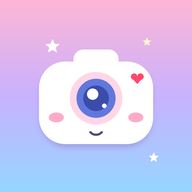
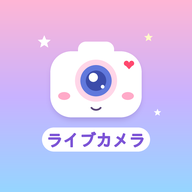
ライブカメラ一覧 v14: アイコンに「ライブカメラ」の文字
Claude-Session: https://claude.ai/code/session_01HruRYGx8dCqeC8TZRHkxHD

Changed region(s): [[0.1875, 0.1875, 0.8438, 0.8125], [0.75, 0.1562, 0.8125, 0.25], [0.7812, 0.7812, 0.8438, 0.8438]]

diff --git a/livecam/index.html b/livecam/index.html
@@ -69,7 +69,7 @@ dialog select,dialog input{background:var(--bg)}
 </head>
 <body>
 <header>
-  <div class="top"><div><h1>ライブカメラ一覧</h1><div id="ver" class="hint" style="margin-top:0">バージョン <b>v13</b>・<span id="total"></span></div></div><button id="add">＋ 追加</button></div>
+  <div class="top"><div><h1>ライブカメラ一覧</h1><div id="ver" class="hint" style="margin-top:0">バージョン <b>v14</b>・<span id="total"></span></div></div><button id="add">＋ 追加</button></div>
   <div class="row2">
     <select id="pref" aria-label="県を選ぶ"></select>
     <input id="q" type="search" placeholder="地名で探す" aria-label="地名で探す">

diff --git a/livecam/index.src.html b/livecam/index.src.html
@@ -69,7 +69,7 @@ dialog select,dialog input{background:var(--bg)}
 </head>
 <body>
 <header>
-  <div class="top"><div><h1>ライブカメラ一覧</h1><div id="ver" class="hint" style="margin-top:0">バージョン <b>v13</b>・<span id="total"></span></div></div><button id="add">＋ 追加</button></div>
+  <div class="top"><div><h1>ライブカメラ一覧</h1><div id="ver" class="hint" style="margin-top:0">バージョン <b>v14</b>・<span id="total"></span></div></div><button id="add">＋ 追加</button></div>
   <div class="row2">
     <select id="pref" aria-label="県を選ぶ"></select>
     <input id="q" type="search" placeholder="地名で探す" aria-label="地名で探す">

diff --git a/CLAUDE.md b/CLAUDE.md
@@ -63,6 +63,7 @@
   `ot`・`yc` の出どころは「ライブカメラマップ」ultimate-map.com の `livecameramap/cams.php?set=jp`（行=[ID,名前,種類,屋内,緯度,経度,県コード,市区町村,YouTubeID,動画ライブ1,業種]）で動画ライブ=1 の物だけ、元ページは `spot.php?id=` の外部リンク。robots.txt で禁止されていない範囲（track.php・jobs.php 以外）。
 - v12: Brave でインストールの項目が出ない（持ち主）→ `livecam/sw.js`（保存しない Service Worker。開く時だけ fetch を通す）を足し、make_worker.js で /sw.js も返す。
 - v13: アイコンを可愛く（持ち主）。PIL で描いたパステルのグラデーション＋白いカメラ（ほっぺ・にっこり口・ハート・星）。icon-192/512.png。
+- v14: アイコンに「ライブカメラ」の文字（白い帯・紫の文字、IPAゴシックを縁取りで太く）。カメラは0.8倍で上へ。丸く切られても文字が欠けないのを確認。
 - 公開: `node livecam/make_worker.js 出力先` で worker.js と meta.json を作り、PUT する（下の行）。
 - 更新したら `livecam/` の4ファイル（index.html・manifest.webmanifest・icon-192/512.png）を1つの Worker（ファイルを埋め込んで返すだけ）にまとめ、`PUT /accounts/{id}/workers/scripts/livecam`（metadata は main_module と compatibility_date のみ、bindings なし）。`zatsugaku-push` には触らない。
 
